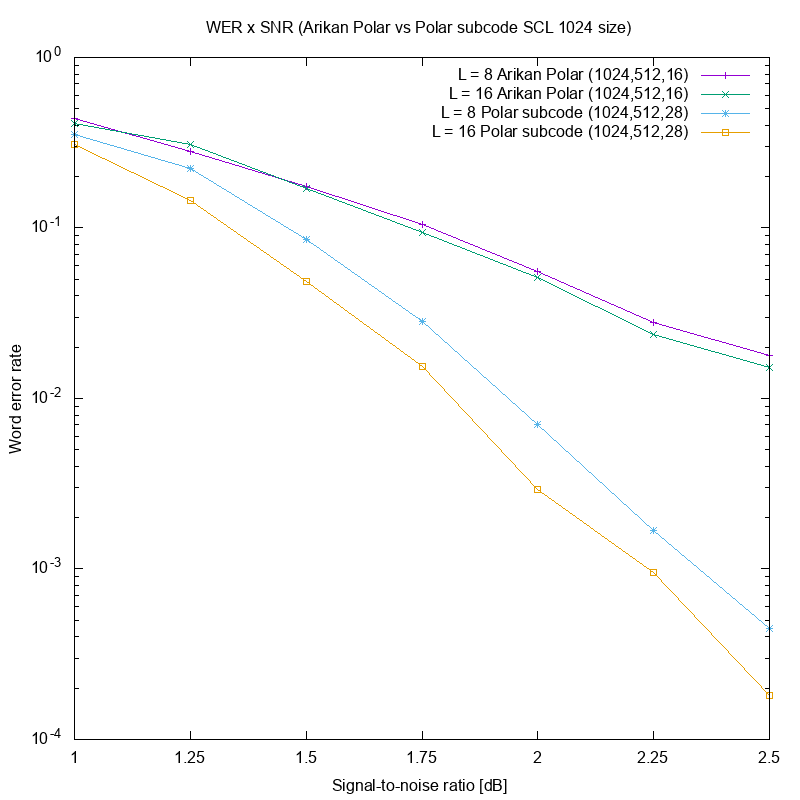
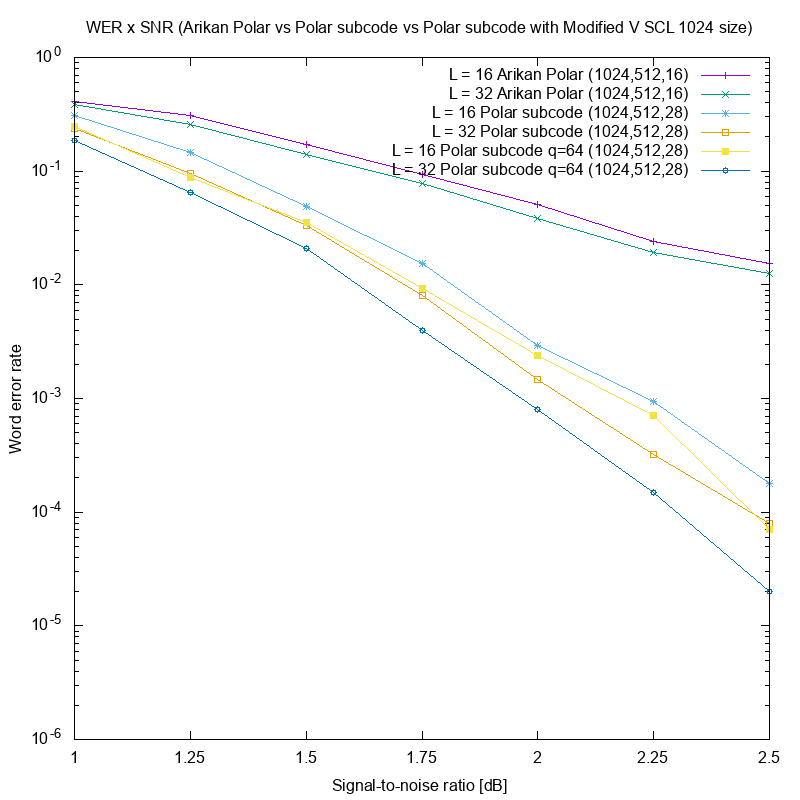
Add V matrix modification

diff --git a/main.cpp b/main.cpp
@@ -10,16 +10,16 @@ int main(int argc, char *argv[]) {
     srand(time(nullptr));
     cin.tie(nullptr);
     ios_base::sync_with_stdio(false);
-//    freopen("results/output.txt", "w", stdout);
+    freopen("out.txt", "w", stdout);
 
-//    u8 n = 10;
-//    u16 info_length = 512;
+    u8 n = 10;
+    u16 info_length = 512;
 
-    u8 n = 6;
-    u16 info_length = 36;
+//    u8 n = 6;
+//    u16 info_length = 30;
 
-//    u8 n = 4; // 16
-//    u16 info_length = 6; //
+//    u8 n = 4;
+//    u16 info_length = 6;
 
     u16 crc_size = 0;
 
@@ -27,27 +27,25 @@ int main(int argc, char *argv[]) {
 
     // is subcode ?
     bool is_subcode = true;
+    int q = 64;
 
     vector<u8> poly(n + 1);
 //            x^10 + x^3 + 1
-//    poly = {1,0,0,0,0,0,0,1,0,0,1};
-//    u16 bch_code_distance = 28;
+    poly = {1,0,0,0,0,0,0,1,0,0,1};
+    u16 bch_code_distance = 28;
 
 //          x^6+x^1+1
-    poly = {1,0,0,0,0,1,1};
-    u16 bch_code_distance = 12;
+//    poly = {1,0,0,0,0,1,1};
+//    u16 bch_code_distance = 12;
 
 //           x^4+x^3+1
 //    poly = {1,1,0,0,1};
 //    u16 bch_code_distance = 6;
-//     is subcode ?
 
+    PolarCode polar_code(n, info_length, epsilon, crc_size, is_subcode, poly, bch_code_distance, q);
 
-    PolarCode polar_code(n, info_length, epsilon, crc_size, is_subcode, poly, bch_code_distance);
-
-    double ebno_log_min = 2.50;
-    double ebno_log_max = 2.51;
-//    double ebno_log_max = 1.01;
+    double ebno_log_min = 1.00;
+    double ebno_log_max = 1.01;
     double ebno_log_increment = 0.25;
     vector<double> ebno_vec;
 
@@ -60,8 +58,8 @@ int main(int argc, char *argv[]) {
 //            2,
 //            4,
 //            8,
-            16,
-//            32
+//            16,
+            32
     };
 
     auto start = high_resolution_clock::now();
@@ -71,13 +69,11 @@ int main(int argc, char *argv[]) {
         u8 list_size = list_size_arr[i];
         const size_t min_error_amount = 100;
         const size_t max_runs_amount = 100000;
-//        const size_t max_runs_amount = 10000;
 
 
         word_error_rate[i] = polar_code.get_word_error_rate(ebno_vec, list_size, min_error_amount,
                                                                         max_runs_amount);
     }
-
 
     for (size_t ebno_i = 0; ebno_i < ebno_vec.size(); ++ebno_i) {
         cout << fixed << setprecision(2) << ebno_vec.at(ebno_i) << "\t\t";

diff --git a/PolarCode.h b/PolarCode.h
@@ -27,24 +27,27 @@ public:
               u16 crc_size,
               bool is_subcode,
               vector<u8> poly,
-              u16 bch_distance)
+              u16 bch_distance,
+              int q)
               : m(num_layers),
                 info_length(info_length),
                 epsilon(epsilon),
                 crc_size(crc_size),
                 is_subcode(is_subcode),
                 poly(std::move(poly)),
-                bch_distance(bch_distance) {
+                bch_distance(bch_distance),
+                q(q) {
 
         word_length = (u16) (1 << m);
         frozen_bits.resize(word_length, 0);
         bit_rev_matrix_order.resize(word_length);
         get_bit_rev_order();
+        initialize_channel_order();
         if (is_subcode) {
             build_constraint_matrix();
+        } else {
+            initialize_frozen_bits();
         }
-        initialize_frozen_bits();
-
 
         list_size = 1; // default
         decoded_info_bits.resize(info_length);
@@ -68,24 +71,26 @@ private:
 
     vector<int> frozen_bits;
     vector<u16> channel_order_descending;
+    vector<int> static_frozen_channels;
     vector<vector<u8>> crc_matrix;
     vector<u16> bit_rev_matrix_order;
 
+    void initialize_channel_order();
     void initialize_frozen_bits();
-
     void get_bit_rev_order();
 
     u16 list_size;
 
     // subcode:
     bool is_subcode;
+    int q;
     vector<u8> poly;
     u16 bch_distance;
     vector<int> T_arr;
     vector<int> J;
-    std::vector<std::vector<u8> > constraint_matrix;
+    vector<vector<u8> > constraint_matrix;
     void build_constraint_matrix();
-    void apply_dzs_type_b();
+    void insert_least_reliable_rows_for_freezing_bits();
     vector<vector<u8> > build_bch_check_matrix();
     vector<vector<u8> > kronecker_product();
     vector<vector<u8> > get_a_matrix(vector<vector<u8> >& f_matrix);

diff --git a/build_constraight_matrix.cpp b/build_constraight_matrix.cpp
@@ -15,7 +15,14 @@ void PolarCode::build_constraint_matrix() {
     sort_by_right_one(h_a_t_product);
     matrix_reduction(h_a_t_product);
     remove_zero_rows(h_a_t_product);
-    apply_dzs_type_b();
+    J.resize(constraint_matrix.size(), -1);
+    for (size_t i = 0; i < J.size(); ++i) {
+        J.at(i) = find_the_most_right_one_pos(constraint_matrix.at(i));
+    }
+    initialize_frozen_bits();
+
+    insert_least_reliable_rows_for_freezing_bits();
+
 //    cout << '\n' << constraint_matrix.size() << ' ' << constraint_matrix[0].size() << '\n';
 //
 //    for (auto & i : constraint_matrix) {
@@ -40,10 +47,22 @@ void PolarCode::build_constraint_matrix() {
     }
 }
 
-void PolarCode::apply_dzs_type_b() {
-
+void PolarCode::insert_least_reliable_rows_for_freezing_bits() {
+    int amount_to_freeze = static_frozen_channels.size();
+    for (int i = 0; i < static_frozen_channels.size(); ++i) {
+        vector<u8> V_row_to_insert(constraint_matrix.at(0).size(), 0);
+        V_row_to_insert.at(static_frozen_channels.at(i)) = 1;
+        if (amount_to_freeze <= q) {
+            for (int j = 0; j < static_frozen_channels.at(i); ++j) {
+                if (frozen_bits.at(j) == 0) {
+                    V_row_to_insert.at(j) = rand() % 2;
+                }
+            }
+        }
+        constraint_matrix.push_back(V_row_to_insert);
+        amount_to_freeze--;
+    }
 }
-
 
 vector<vector<u8> > PolarCode::build_bch_check_matrix() {
     vector<vector<u8> > h(bch_distance - 1, vector<u8>(word_length));

diff --git a/PolarCode.cpp b/PolarCode.cpp
@@ -1,6 +1,6 @@
 #include "PolarCode.h"
 
-void PolarCode::initialize_frozen_bits() {
+void PolarCode::initialize_channel_order() {
     vector<double> channel_vec(word_length);
 
     for (u16 i = 0; i < word_length; ++i) {
@@ -33,12 +33,15 @@ void PolarCode::initialize_frozen_bits() {
          [&](int i1, int i2) {
              return channel_vec.at(bit_rev_matrix_order.at(i1)) < channel_vec.at(bit_rev_matrix_order.at(i2));
          });
+//        cout << "channel_order_descending: ";
+//        for (int i = 0; i < channel_order_descending.size(); i++) {
+//            cout << channel_order_descending.at(i) << ' ';
+//        }
+//        cout << '\n';
+}
+
+void PolarCode::initialize_frozen_bits() {
     u16 effective_info_length = info_length;
-//    cout << "channel_order_descending: ";
-//    for (int i = 0; i < channel_order_descending.size(); i++) {
-//        cout << channel_order_descending.at(i) << ' ';
-//    }
-//    cout << '\n';
     if (is_subcode) {
         for (int i = 0; i < J.size(); ++i) {
             frozen_bits.at(J.at(i)) = 1;
@@ -48,6 +51,7 @@ void PolarCode::initialize_frozen_bits() {
         while (amount_to_freeze > 0) {
             if (frozen_bits.at(channel_order_descending.at(pos)) != 1) {
                 frozen_bits.at(channel_order_descending.at(pos)) = 1;
+                static_frozen_channels.push_back(channel_order_descending.at(pos));
                 amount_to_freeze--;
             }
             pos--;

diff --git a/GaloisFieldPolynomial.cpp b/GaloisFieldPolynomial.cpp
@@ -25,7 +25,6 @@ GaloisFieldPolynomial GaloisFieldPolynomial::multiply(GaloisFieldPolynomial &a, 
 
     for (int i = 0; i < a_size; i++) {
         for (int j = 0; j < b_size; j++) {
-            // ???
             prod_poly.at(i + j) ^= a.get_poly(i) * b.get_poly(j);
         }
     }
